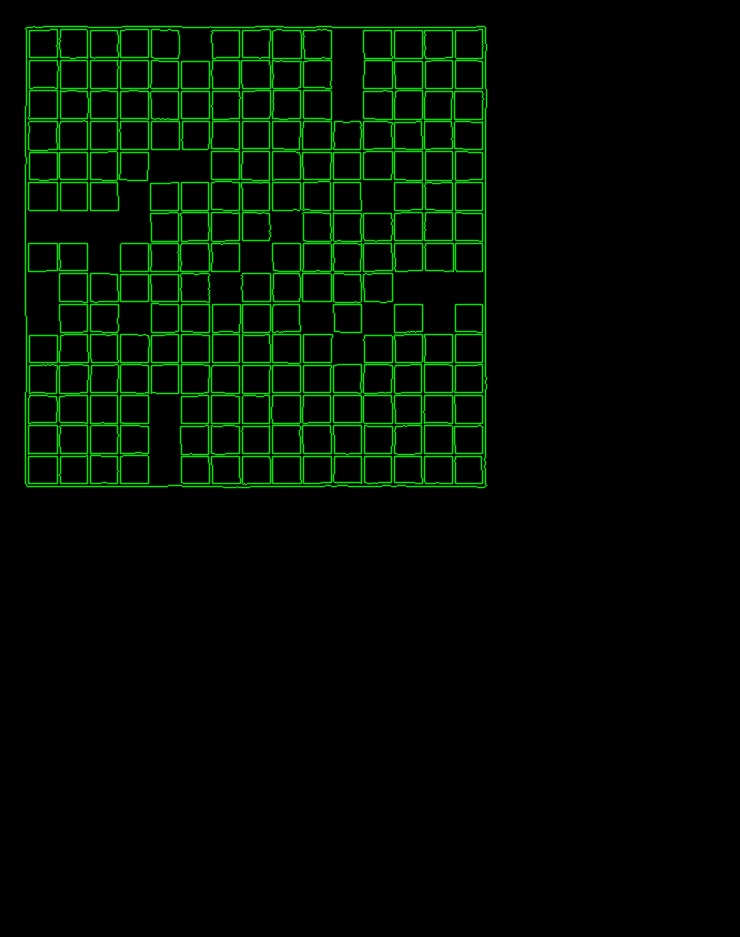
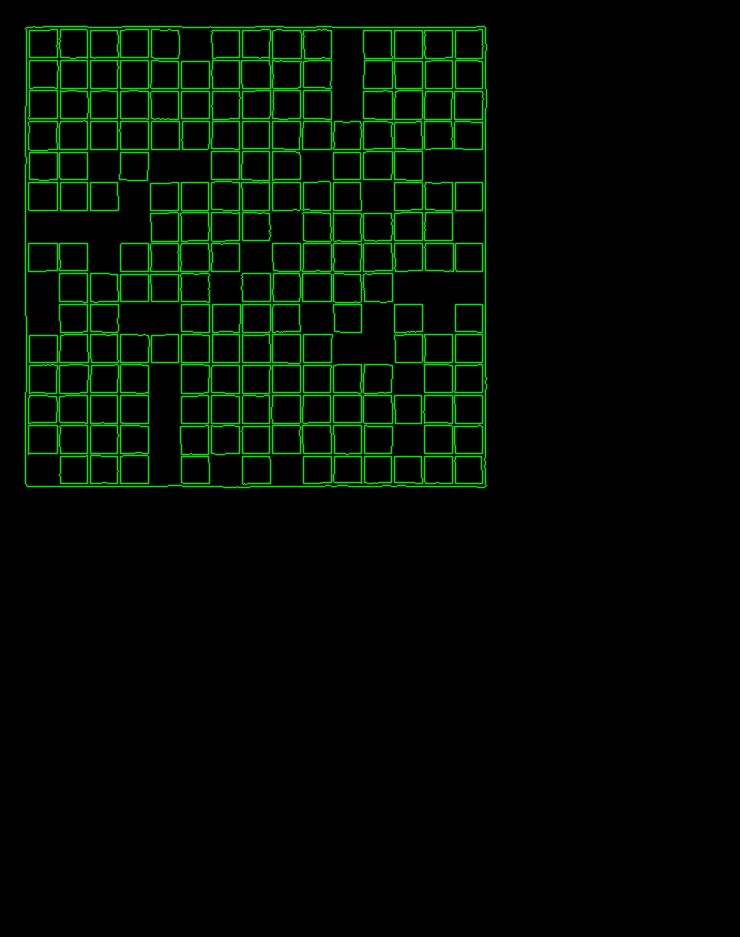
no longer get flse positives in detectSquareContour

diff --git a/Main.py b/Main.py
@@ -37,7 +37,7 @@ def detectSquareContour(contour,emptyImage,name):
         aspect_ratio = float(w) / h
         cnt_len = cv2.arcLength(cont, True)
         cnt = cv2.approxPolyDP(cont, 0.02*cnt_len, True)
-        if len(cnt) == 4 and cv2.contourArea(cnt) > 100 and abs(aspect_ratio-1) < 0.1:
+        if len(cnt) == 4 and cv2.contourArea(cnt) > 100 and abs(aspect_ratio-1) < 0.05:
             squares.append(cont)
     cv2.drawContours(image=emptyImage, contours=squares, contourIdx=-1, color=(0, 255, 0), thickness=1, lineType=cv2.LINE_AA)
     cv2.imwrite(name+'squares.jpg', emptyImage)
